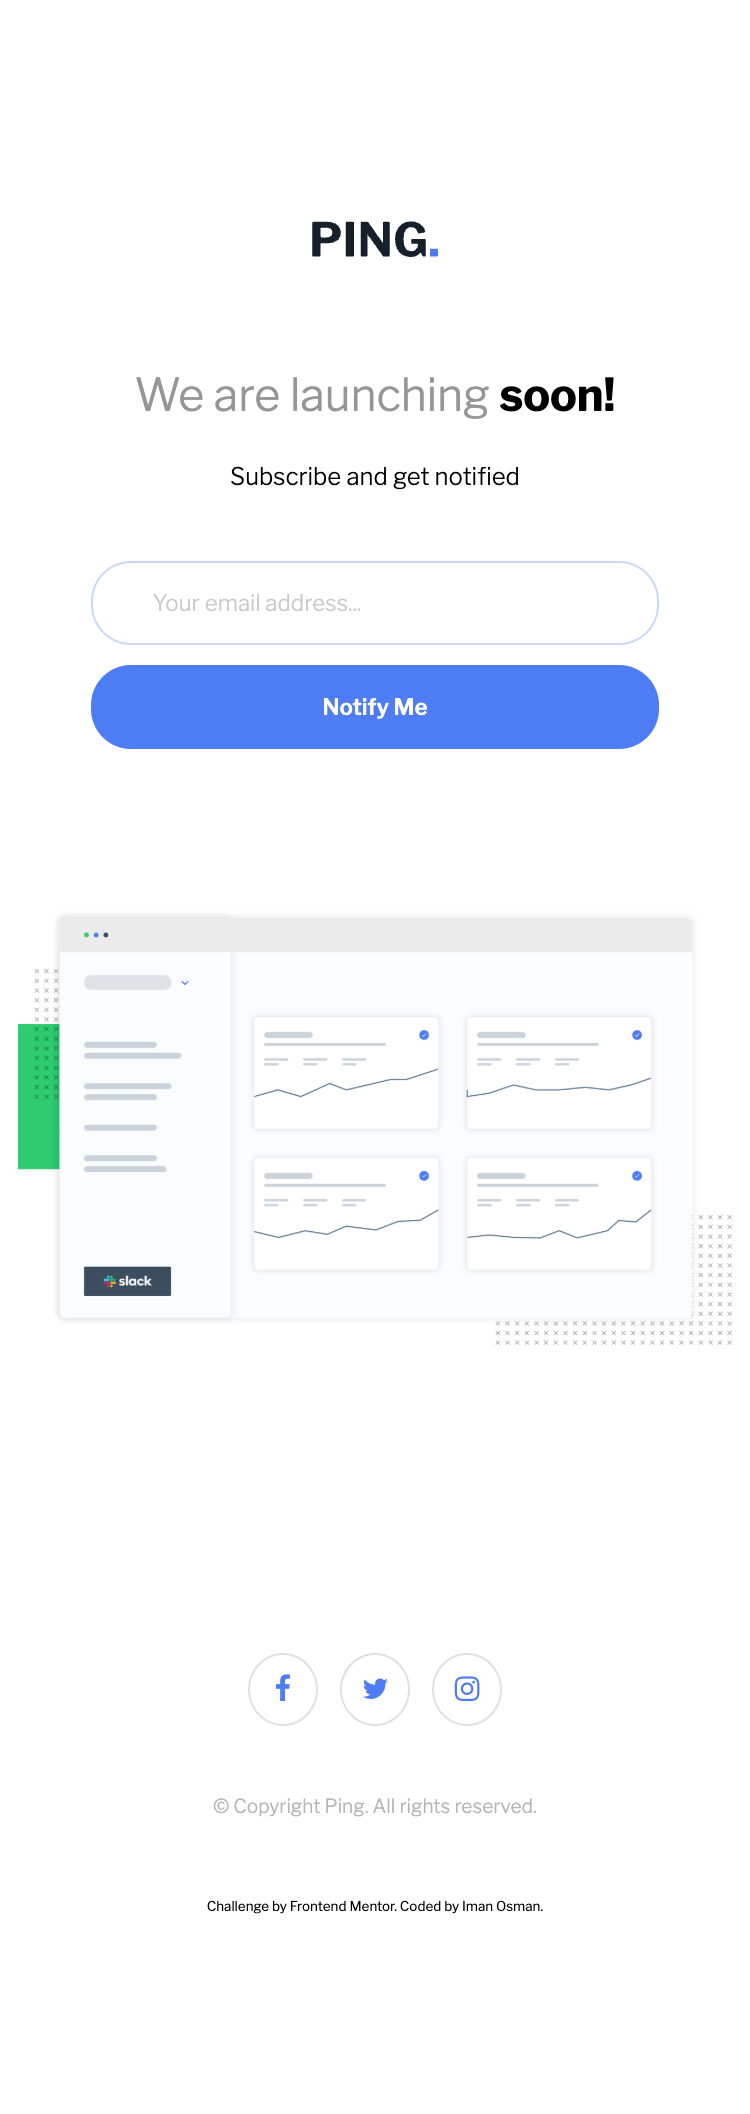
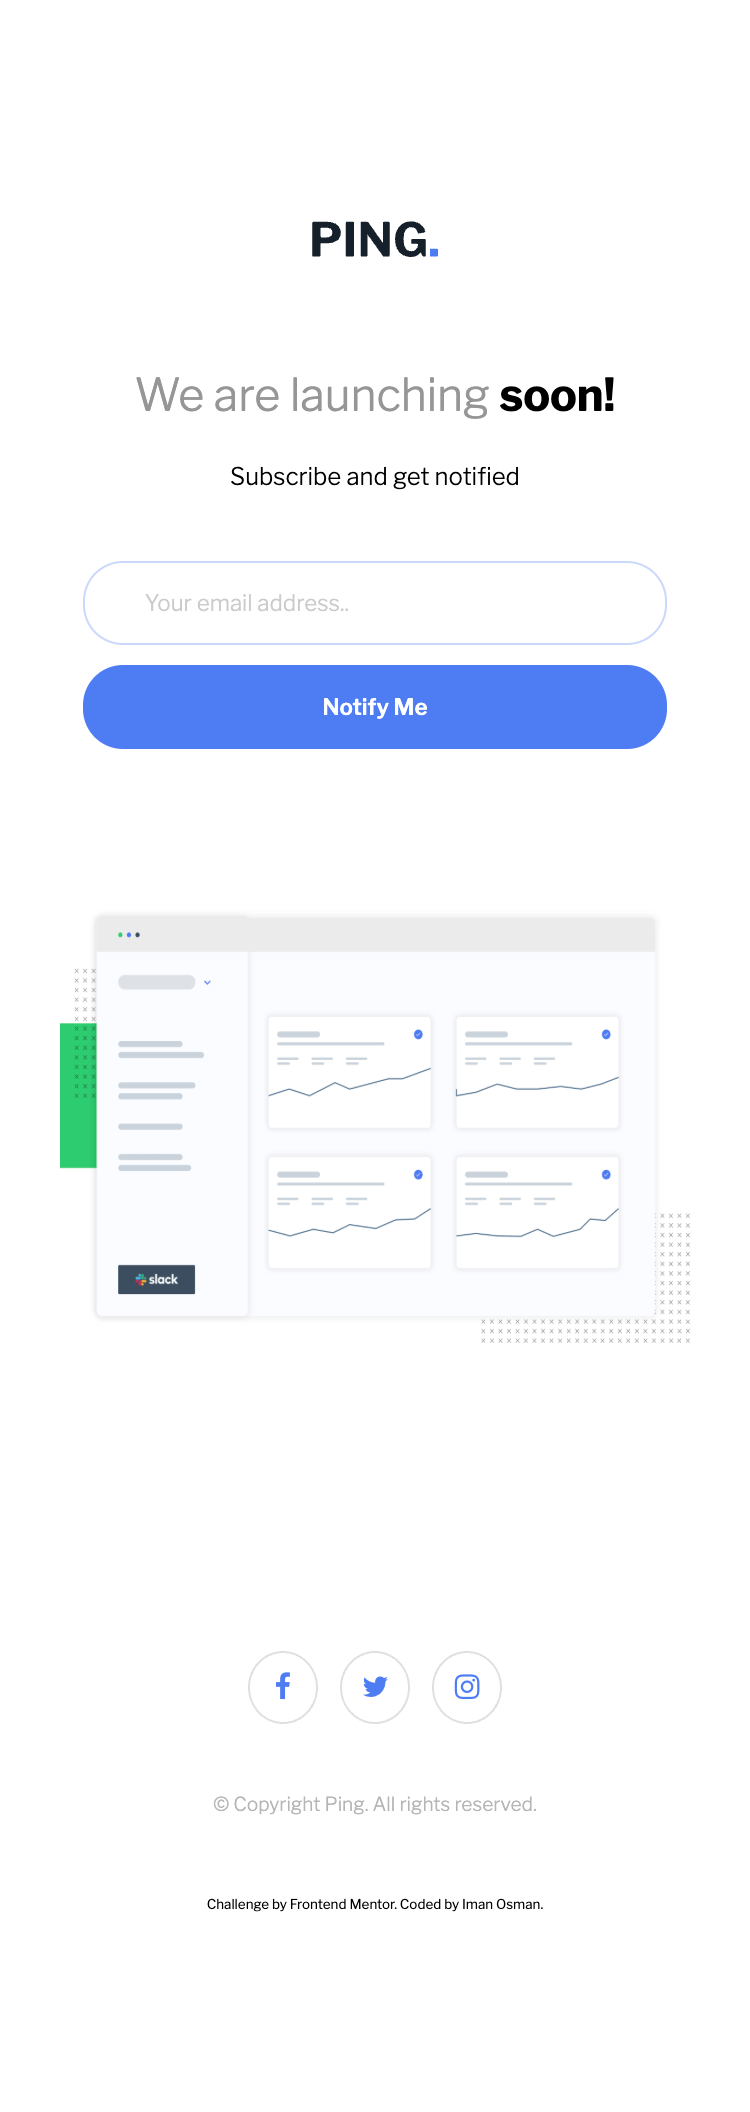
desktop

diff --git a/sass/input.scss b/sass/input.scss
@@ -32,6 +32,7 @@ body {
 
 strong { 
     color: initial;
+    font-weight: 700;
 }
 
 .subheading {
@@ -47,10 +48,10 @@ form {
     input[type="email"], button[type="submit"] { // SHARED STYLES BETWEEN EMAIL FIELD & SUBMIT BUTTON
         all: unset; // removes default styling of the inputs 
         padding: 13px 30px;
-        width: 70%;
+        width: 75%;
         border: solid hsl(223, 87%, 63%, 30%) 1px; // weird? 
         border-radius: 20px;
-        display: inline-block;
+        // display: inline-block;
         font-size: 0.7em;
         margin: 5px 0;
     }
@@ -134,5 +135,91 @@ footer {
         font-size: 0.7em;
     }
 }
+
+// MEDIA QUERIES 
+
+@media screen and (min-width: 426px) { 
+
+    body, header, footer { 
+        margin: 30px 470px;
+    }
+
+    .logo { 
+        width: 15%;
+    }
+
+    .title {
+        font-size: 2.4em;
+        margin-top: 0;
+        margin-bottom: 20px;
+    }
+
+    .subheading { 
+        font-size: 1em;
+        margin-top: 0;
+    }
+
+    form { 
+        
+        width: 100%;
+
+        display: flex; 
+        flex-direction: row;
+
+        input[type="email"], button[type="submit"] { // SHARED STYLES BETWEEN EMAIL FIELD & SUBMIT BUTTON
+            border-radius: 50px;
+        }
+
+
+        input[type="email"] { 
+            width: 70%;
+            margin-right: 20px;
+        }
+
+        input[type="email"]::placeholder { // PLACEHOLDER YOUR EMAIL ADDRESS... TEXT 
+            font-size: 1.1em;
+        }
+
+        button[type="submit"] { 
+            width: 30%;
+            font-size: 0.8em;
+            padding: 13px 20px;
+            box-shadow: 0px 10px 40px 0px rgba(79, 125, 243, 0.49);
+        }
+
+        button[type="submit"]:hover { 
+            cursor: pointer;
+            opacity: 80%;
+        }
+
+    }
+
+    .illustration { 
+
+        height: 40svh;
+        margin-bottom: 80px;
+    }
+
+    footer { 
+        
+        margin: 20px 0;
+    }
+
+    .socials-container { 
+
+        font-size: 0.7em;
+        // I don't know how to reduce the padding between the img and the border 
+
+    }
+
+    a:hover { 
+        cursor: pointer;
+        // opacity: 80%; 
+        background: hsl(223, 87%, 63%);
+        color: #ffffff;
+    }
+}
+
+// HOVER STATE
 
 

diff --git a/sass/input.css b/sass/input.css
@@ -53,6 +53,7 @@ body {
 
 strong {
   color: initial;
+  font-weight: 700;
 }
 
 .subheading {
@@ -66,10 +67,9 @@ strong {
 form input[type=email], form button[type=submit] {
   all: unset;
   padding: 13px 30px;
-  width: 70%;
+  width: 75%;
   border: solid hsla(223, 87%, 63%, 0.3) 1px;
   border-radius: 20px;
-  display: inline-block;
   font-size: 0.7em;
   margin: 5px 0;
 }
@@ -152,4 +152,65 @@ footer .copyright {
 footer .attribution {
   margin: 40px;
   font-size: 0.7em;
+}
+
+@media screen and (min-width: 426px) {
+  body, header, footer {
+    margin: 30px 470px;
+  }
+  .logo {
+    width: 15%;
+  }
+  .title {
+    font-size: 2.4em;
+    margin-top: 0;
+    margin-bottom: 20px;
+  }
+  .subheading {
+    font-size: 1em;
+    margin-top: 0;
+  }
+  form {
+    width: 100%;
+    display: flex;
+    flex-direction: row;
+  }
+  form input[type=email], form button[type=submit] {
+    border-radius: 50px;
+  }
+  form input[type=email] {
+    width: 70%;
+    margin-right: 20px;
+  }
+  form input[type=email]::-moz-placeholder {
+    font-size: 1.1em;
+  }
+  form input[type=email]::placeholder {
+    font-size: 1.1em;
+  }
+  form button[type=submit] {
+    width: 30%;
+    font-size: 0.8em;
+    padding: 13px 20px;
+    box-shadow: 0px 10px 40px 0px rgba(79, 125, 243, 0.49);
+  }
+  form button[type=submit]:hover {
+    cursor: pointer;
+    opacity: 80%;
+  }
+  .illustration {
+    height: 40svh;
+    margin-bottom: 80px;
+  }
+  footer {
+    margin: 20px 0;
+  }
+  .socials-container {
+    font-size: 0.7em;
+  }
+  a:hover {
+    cursor: pointer;
+    background: hsl(223, 87%, 63%);
+    color: #ffffff;
+  }
 }/*# sourceMappingURL=input.css.map */

diff --git a/sass/output.css b/sass/output.css
@@ -53,6 +53,7 @@ body {
 
 strong {
   color: initial;
+  font-weight: 700;
 }
 
 .subheading {
@@ -66,10 +67,9 @@ strong {
 form input[type=email], form button[type=submit] {
   all: unset;
   padding: 13px 30px;
-  width: 70%;
+  width: 75%;
   border: solid hsla(223, 87%, 63%, 0.3) 1px;
   border-radius: 20px;
-  display: inline-block;
   font-size: 0.7em;
   margin: 5px 0;
 }
@@ -141,6 +141,64 @@ footer .copyright {
 footer .attribution {
   margin: 40px;
   font-size: 0.7em;
+}
+
+@media screen and (min-width: 426px) {
+  body, header, footer {
+    margin: 30px 470px;
+  }
+  .logo {
+    width: 15%;
+  }
+  .title {
+    font-size: 2.4em;
+    margin-top: 0;
+    margin-bottom: 20px;
+  }
+  .subheading {
+    font-size: 1em;
+    margin-top: 0;
+  }
+  form {
+    width: 100%;
+    display: flex;
+    flex-direction: row;
+  }
+  form input[type=email], form button[type=submit] {
+    border-radius: 50px;
+  }
+  form input[type=email] {
+    width: 70%;
+    margin-right: 20px;
+  }
+  form input[type=email]::placeholder {
+    font-size: 1.1em;
+  }
+  form button[type=submit] {
+    width: 30%;
+    font-size: 0.8em;
+    padding: 13px 20px;
+    box-shadow: 0px 10px 40px 0px rgba(79, 125, 243, 0.49);
+  }
+  form button[type=submit]:hover {
+    cursor: pointer;
+    opacity: 80%;
+  }
+  .illustration {
+    height: 40svh;
+    margin-bottom: 80px;
+  }
+  footer {
+    margin: 20px 0;
+  }
+  .socials-container {
+    font-size: 0.7em;
+  }
+  a:hover {
+    cursor: pointer;
+    background: hsl(223, 87%, 63%);
+    color: #ffffff;
+  }
 }
 
 /*# sourceMappingURL=output.css.map */

diff --git a/js/script.js b/js/script.js
@@ -10,6 +10,7 @@ document.addEventListener("DOMContentLoaded", () => {
     let form = document.querySelector(".form"); // Are these classes present in your HTML? Yes. 
     let email = document.querySelector(".email");
     let error = document.querySelector(".error");
+    let notifyYou = document.querySelector(".subheading");
 
     console.log('Form element:', form);
     console.log('Email input element:', email);
@@ -41,7 +42,8 @@ document.addEventListener("DOMContentLoaded", () => {
         } else { // If the input passes the validation checks, do this: 
             email.setCustomValidity(""); // Clear any custom errors 
             error.classList.remove("visible"); // Hides the error message 
-            alert("We'll notify you!") // create a custom submission ano
+            notifyYou.textContent = "We'll notify you!"; // Replaces subheading element with this message
+            email.value = ""; // This clears the field on successful submission 
         }
     });
 });

diff --git a/README.md b/README.md
@@ -39,6 +39,9 @@ This is a solution to the [Ping coming soon page challenge on Frontend Mentor](h
 ## Time taken
 
 :timer_clock: Estimation:
+24/04 - 3.5 hrs
+25/03 - 3 hrs
+31/05 - 3.5hrs
 
 - Total time:
 
@@ -69,6 +72,8 @@ This is a solution to the [Ping coming soon page challenge on Frontend Mentor](h
   - `classList` is a property in JS which allows you to easily modify/access classes using methods like `.add()`, `.remove()`, `.toggle()`, `contains()`. In this challenge we used `error.classList.remove("visible");` to `remove`/`add` visibility to error when/if we wanted them.
   - The `validity` object as part of the HTML Form Validation API. Every `input` has a `validity` property which contains boolean values (`true/false`) as validation states. These check whether inputs comply to necessary constraints or not. Key properties of the `validity` object are: `.valid` (`true/false`), `.valueMissing` (boolean), `.typeMismatch`, `.patternMismatch`, `.tooShort`/`.tooLong`, `rangeUnderflow`/`rangeOverflow`, `stepMismatch`, `..customError` which is set with `setCustomValidity()`.
   - `setCustomValidity()` doesn't _render_ anything visible in my UI. It just passes the error message value (the string) to the `validity.customError` state in the browser's memory. It doesn't do anything after that on its own, which is why you also needed to include the lines `.textContent`. `setCustomValidity()` is more of a behind-the-scenes performance, rather than anything your user would be seeing/experiencing on the screen. You need both because one serves validation logic and the other, visible feedback.
+  - I replaced the subheading text with my own on valid submission :slightly_smiling_face:
+  - I made the input field clear on valid submission :slightly_smiling_face:
 
 ## Development
 
